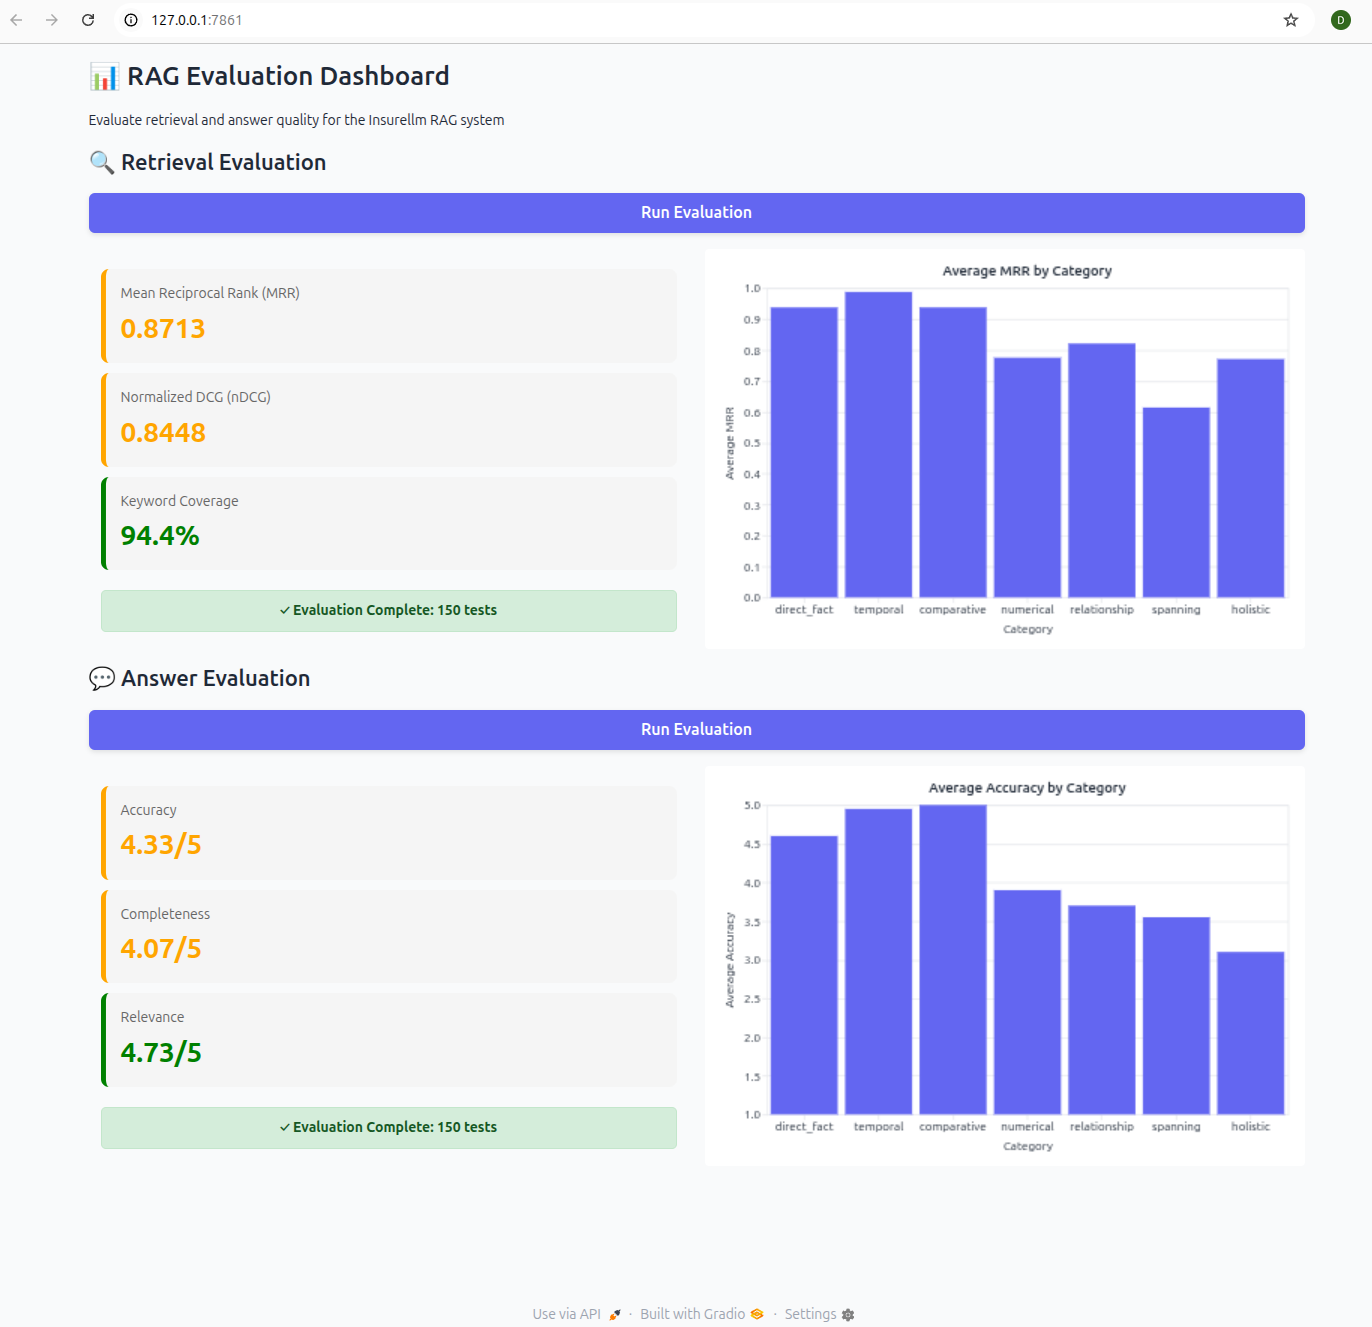
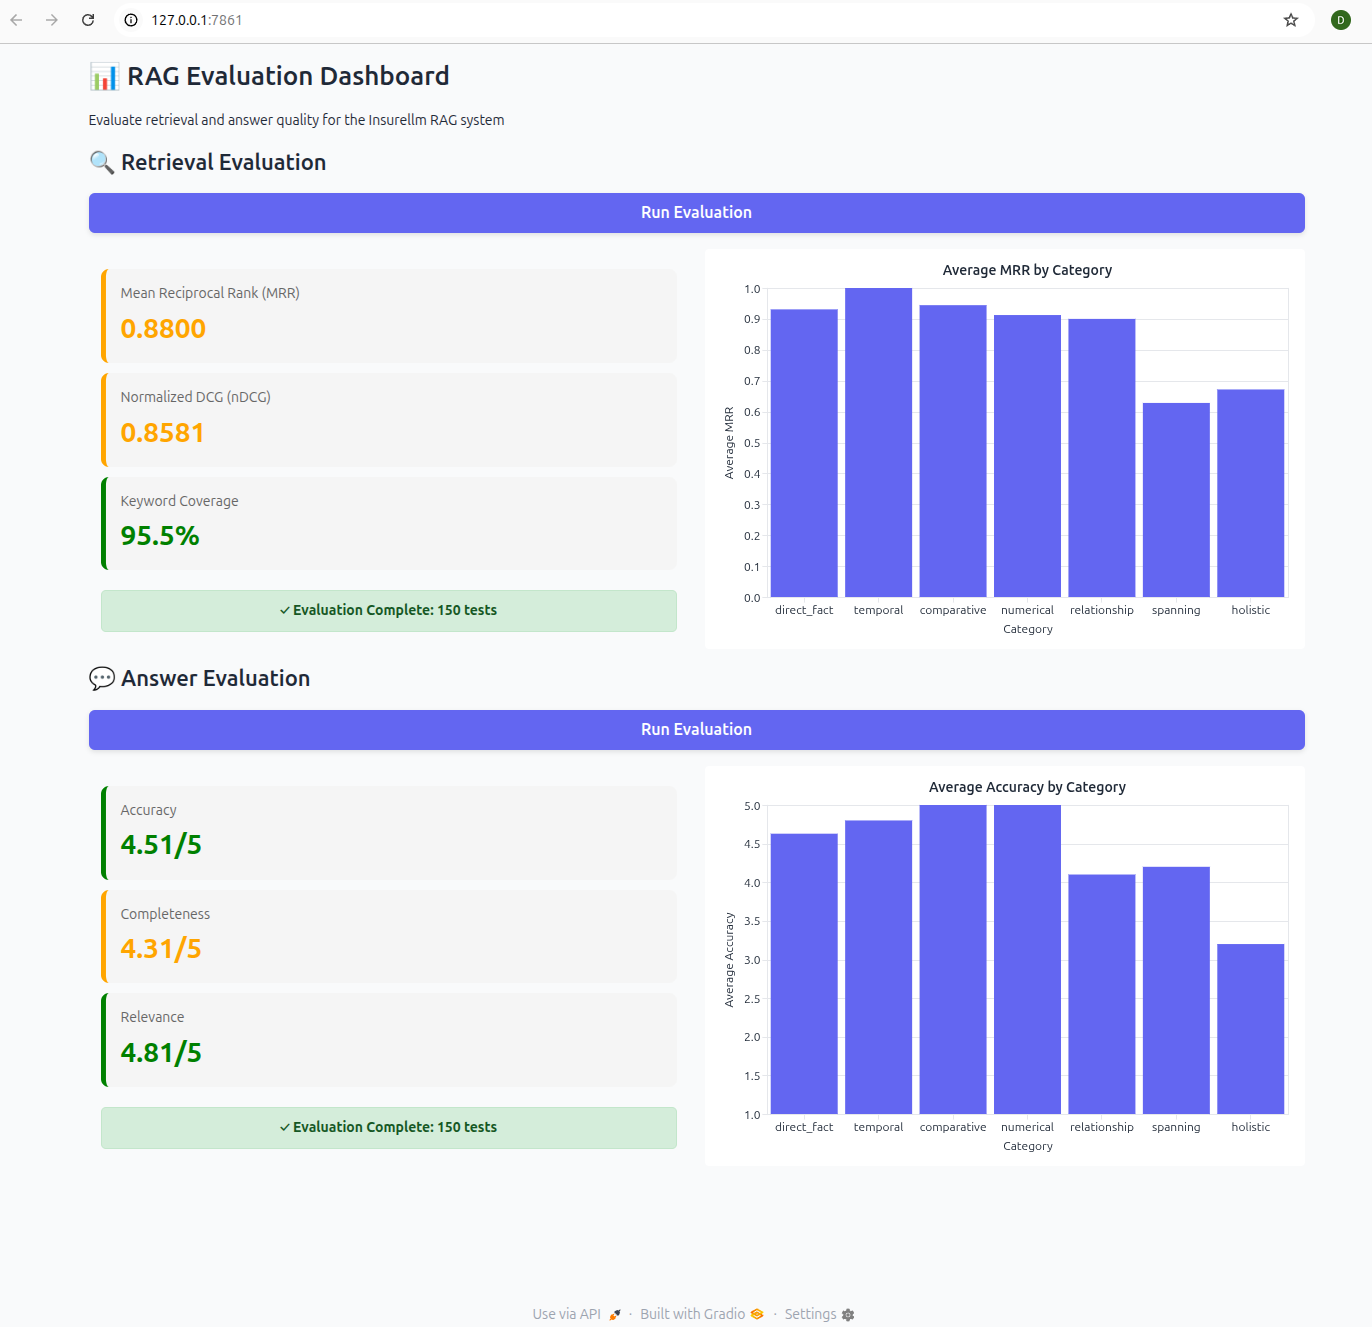
updated ealuation dashboard

diff --git a/README.md b/README.md
@@ -110,14 +110,14 @@ The advanced retrieval system significantly enhances context discovery compared 
 
 | Metric | Score | 
 | :--- | :---: | 
-| **Mean Reciprocal Rank (MRR)** | **0.8713** | 
-| **Normalized DCG (nDCG)** | 0.8448 | 
-| **Keyword Coverage** | **94.4%** | 
-| **Answer Accuracy** | 4.33/5 |
-| **Answer Completeness** | 4.07/5 |
-| **Answer Relevance** | 4.73/5 | 
+| **Mean Reciprocal Rank (MRR)** | **0.8800* | 
+| **Normalized DCG (nDCG)** | 0.8581 | 
+| **Keyword Coverage** | **95.5%** | 
+| **Answer Accuracy** | 4.51/5 |
+| **Answer Completeness** | 4.31/5 |
+| **Answer Relevance** | 4.81/5 | 
 
-*Insight: The advanced query rewriting, combined with semantic summarization and LLM reranking, is incredibly effective at fixing vocabulary mismatches and surfacing hard-to-find keywords, achieving a massive **94.4% keyword coverage rating**.*
+*Insight: The advanced query rewriting, combined with semantic summarization and LLM reranking, is incredibly effective at fixing vocabulary mismatches and surfacing hard-to-find keywords, achieving a massive **95.5% keyword coverage rating**.*
 
 ---
 
